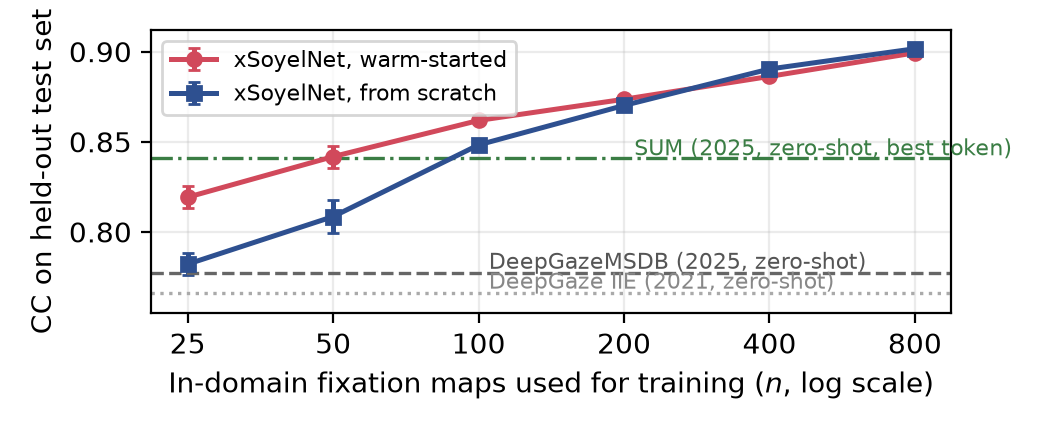
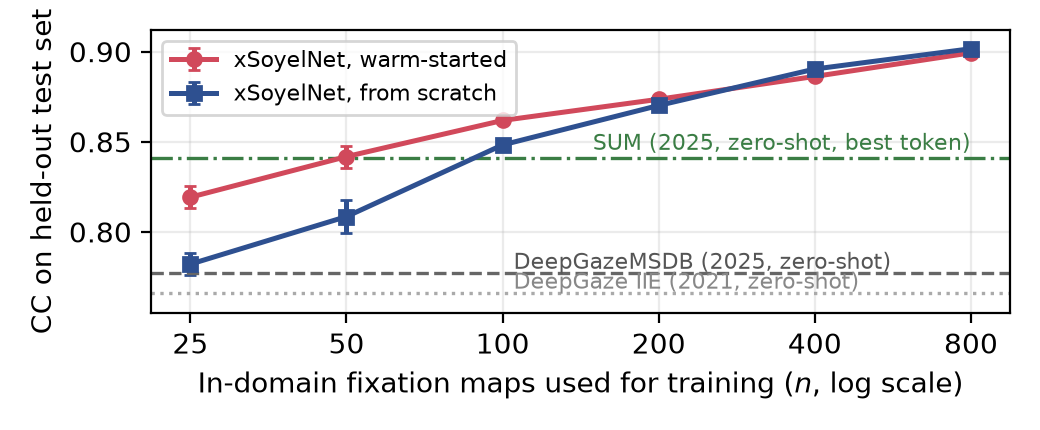
Fix SUM label clipping in sample-efficiency figure

diff --git a/make_sampeff_fig.py b/make_sampeff_fig.py
@@ -21,7 +21,8 @@ for data, label, color, marker in [
 # SUM (WACV'25) best domain token, scored on this figure's exact 200-image test set
 # (per-image json from sm job add1000-sum-2026-07-07, cond 2).
 ax.axhline(0.841, color="#3a7d44", linestyle="-.", linewidth=1.2)
-ax.text(210, 0.8425, "SUM (2025, zero-shot, best token)", fontsize=8, color="#3a7d44")
+ax.text(800, 0.8455, "SUM (2025, zero-shot, best token)", fontsize=8, color="#3a7d44",
+        ha="right")
 ax.axhline(0.777, color="#666666", linestyle="--", linewidth=1.2)
 ax.axhline(0.766, color="#aaaaaa", linestyle=":", linewidth=1.2)
 ax.text(105, 0.7795, "DeepGazeMSDB (2025, zero-shot)", fontsize=8, color="#555555")
